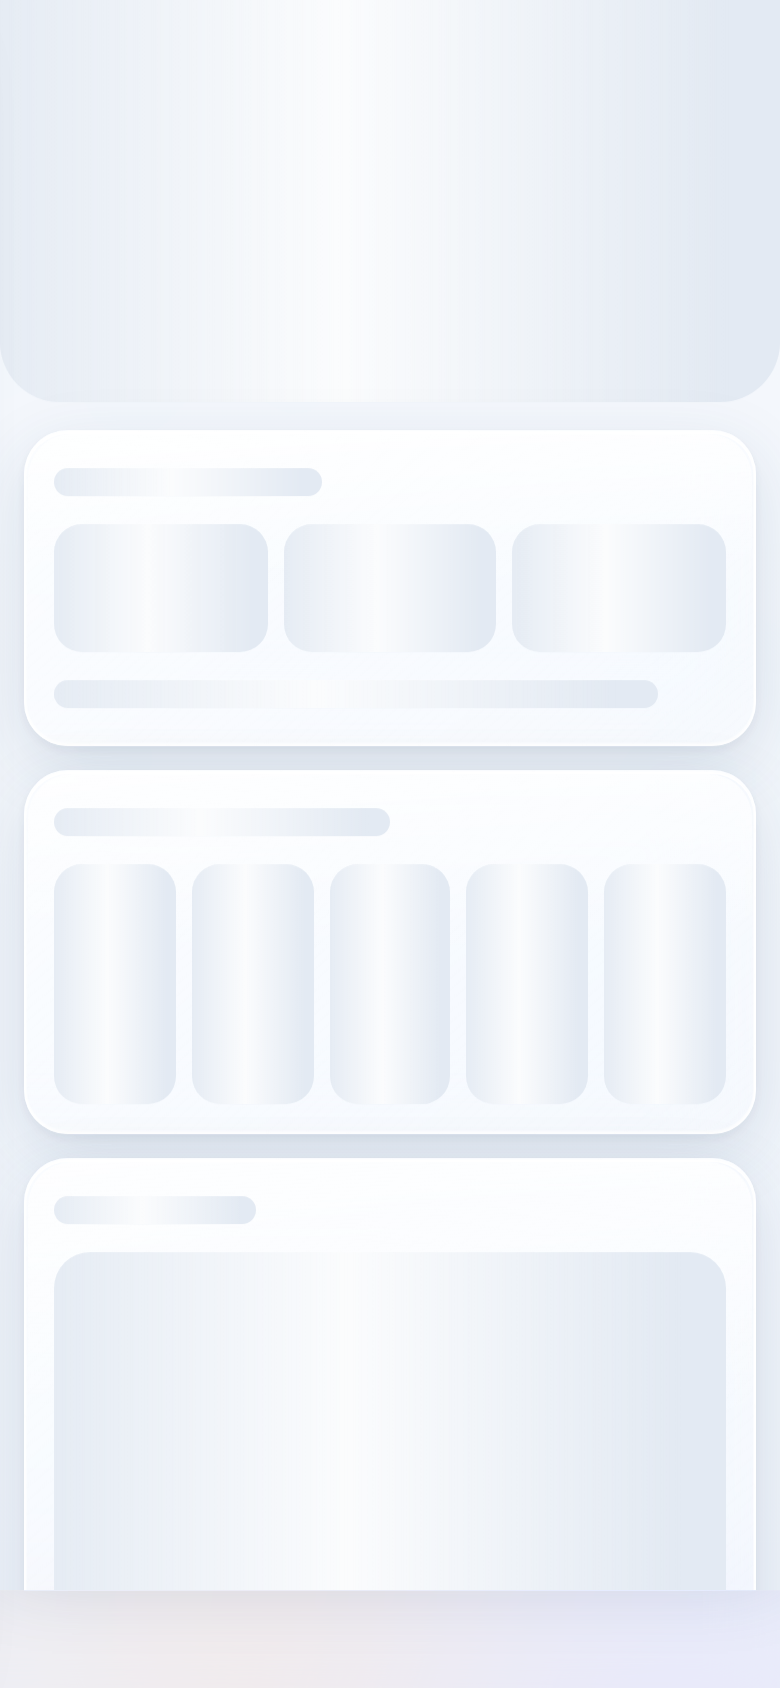
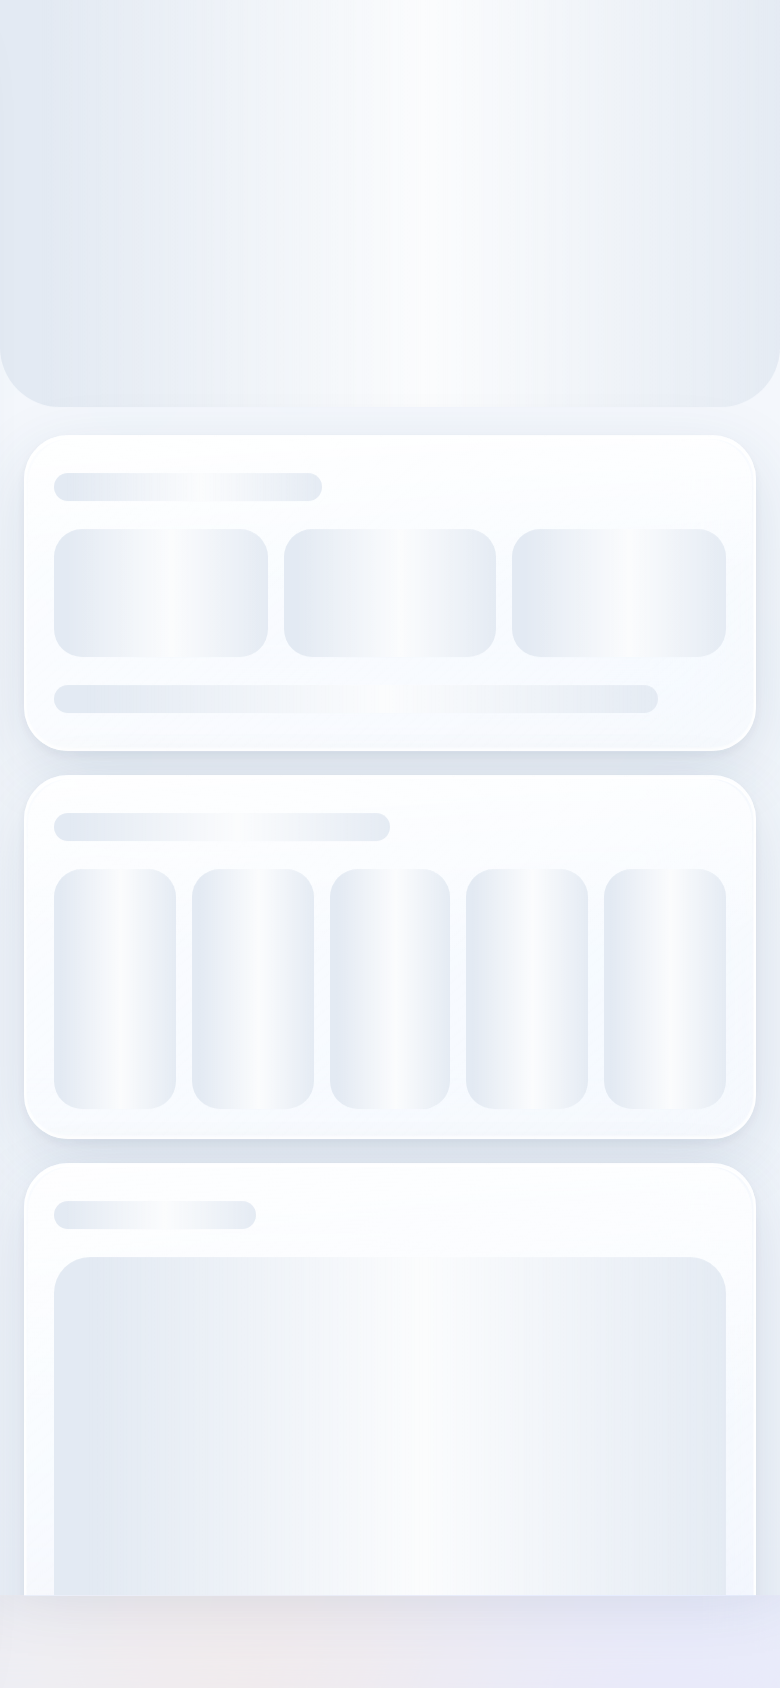
おすすめタブを削除（タブは検索・履歴の2つに）
- おすすめタブ・カルーセル・初心者向けリスト・メニューの「おすすめ」を削除
- ページャ・インジケーター・キー操作を2タブに対応
- E2E のタブ切替テストを2タブ用に更新

Claude-Session: https://claude.ai/code/session_017srsqCqyUnvrGkJVuN8LTR

Changed region(s): [[0.0615, 0.4313, 0.9538, 0.4621]]

diff --git a/public/js/app.js b/public/js/app.js
@@ -40,7 +40,6 @@ const state = {
 const el = {
   q: $('#q'), qClear: $('#qClear'), chips: $('#chips'), results: $('#results'), resultHead: $('#resultHead'), noResult: $('#noResult'),
   pager: $('#pager'), tabs: $$('.tab'), ind: $('.tab-ind'),
-  carousel: $('#carousel'), dots: $('#dots'), beginner: $('#beginnerList'), recoHead: $('#recoHead'),
   hist: $('#historyList'), histEmpty: $('#historyEmpty'),
   menuBtn: $('#menuBtn'), drawer: $('#drawer'), drawerScrim: $('#drawerScrim'),
   detail: $('#detail'), detailScroll: $('#detailScroll'),
@@ -96,7 +95,6 @@ function listNote() {
 
 function refreshLists() {
   renderResults();
-  renderBeginners();
 }
 
 function openMountain(id) {
@@ -174,7 +172,7 @@ function setActiveTab(i) {
   if (state.page === i && el.tabs[i].getAttribute('aria-selected') === 'true') return;
   state.page = i;
   el.tabs.forEach((t, k) => { t.setAttribute('aria-selected', String(k === i)); t.tabIndex = k === i ? 0 : -1; });
-  if (i === 2) renderHistory();
+  if (i === 1) renderHistory();
 }
 function bindPager() {
   let raf = 0;
@@ -191,51 +189,11 @@ function bindPager() {
   el.tabs.forEach((t, i) => t.addEventListener('click', () => goPage(i)));
   $('.tabs').addEventListener('keydown', (e) => {
     if (e.key !== 'ArrowRight' && e.key !== 'ArrowLeft') return;
-    const i = (state.page + (e.key === 'ArrowRight' ? 1 : 2)) % 3;
+    const i = (state.page + 1) % 2;
     goPage(i); el.tabs[i].focus();
   });
   window.addEventListener('resize', () => { el.pager.scrollLeft = state.page * el.pager.clientWidth; sync(); });
   sync();
-}
-
-// ------------------------------------------------------------------ おすすめ
-function renderReco() {
-  const mo = currentMonth();
-  el.recoHead.textContent = `${mo}月が適期の山`;
-  const list = MOUNTAINS.filter((m) => m.bestMonths.includes(mo)).sort((a, b) => b.popular - a.popular).slice(0, 8);
-  el.carousel.innerHTML = list.map((m, i) => `<button type="button" class="slide glass" data-id="${m.id}" aria-label="${esc(m.name)}の詳細を開く（${i + 1}/${list.length}）">
-      <span class="slide-art">${pic(m, { w: 320, h: 200 }, 'l')}</span>
-      <span class="slide-cap"><b>${esc(m.name)}</b><small>${esc(m.pref)}・${m.elev.toLocaleString()}m・${DIFFICULTY_LABEL[m.difficulty]}</small></span>
-    </button>`).join('');
-  el.dots.innerHTML = list.map((_, i) => `<span class="dot${i === 0 ? ' active' : ''}"></span>`).join('');
-  renderBeginners();
-  requestAnimationFrame(syncCarousel);
-}
-function renderBeginners() {
-  const mo = currentMonth();
-  const beginners = MOUNTAINS.filter((m) => m.difficulty <= 2).sort((a, b) => (b.bestMonths.includes(mo) - a.bestMonths.includes(mo)) || b.popular - a.popular).slice(0, 10);
-  el.beginner.innerHTML = beginners.map(cardHtml).join('');
-  const note = document.getElementById('beginnerNote');
-  if (note) note.innerHTML = listNote();
-}
-function syncCarousel() {
-  const c = el.carousel;
-  const mid = c.scrollLeft + c.clientWidth / 2;
-  let best = 0; let bestD = Infinity;
-  [...c.children].forEach((s, i) => {
-    const center = s.offsetLeft + s.offsetWidth / 2;
-    const d = Math.abs(center - mid);
-    const k = Math.min(1, d / (s.offsetWidth || 1));
-    s.style.setProperty('--k', (1 - k).toFixed(3));
-    if (d < bestD) { bestD = d; best = i; }
-  });
-  [...el.dots.children].forEach((d, i) => d.classList.toggle('active', i === best));
-  c.dataset.index = String(best);
-}
-function bindCarousel() {
-  let raf = 0;
-  el.carousel.addEventListener('scroll', () => { if (!raf) raf = requestAnimationFrame(() => { raf = 0; syncCarousel(); }); }, { passive: true });
-  window.addEventListener('resize', syncCarousel);
 }
 
 // ------------------------------------------------------------------ 履歴
@@ -343,8 +301,7 @@ function bindDrawer() {
     const act = b.dataset.act;
     closeDrawer(false);
     if (act === 'origin') openOriginSheet();
-    else if (act === 'reco') goPage(1);
-    else if (act === 'history') goPage(2);
+    else if (act === 'history') goPage(1);
     else if (act === 'clear') clearHistory();
     else if (act === 'about') openSheet(el.aboutSheet);
   });
@@ -472,7 +429,7 @@ function showDetail(m, pushed) {
   for (const s of [el.originSheet, el.aboutSheet]) closeSheet(s, false);
   hideToast();
   store.pushHistory(m.id);
-  if (state.page === 2) renderHistory();
+  if (state.page === 1) renderHistory();
   if (!el.detail.classList.contains('open')) detailReturnFocus = document.activeElement;
   const token = Symbol(m.id);
   const abort = new AbortController();
@@ -519,7 +476,7 @@ function hideDetail() {
     el.detail.classList.remove('closing');
     el.detailScroll.innerHTML = '';
   }, reducedMotion() ? 0 : 380);
-  if (state.page === 2) renderHistory();
+  if (state.page === 1) renderHistory();
   if (detailReturnFocus?.isConnected) detailReturnFocus.focus({ preventScroll: true });
 }
 
@@ -761,10 +718,8 @@ function boot() {
   renderOrigin();
   renderChips();
   renderResults();
-  renderReco();
   bindSearch();
   bindPager();
-  bindCarousel();
   bindDrawer();
   bindSheets();
   bindOrigin();

diff --git a/public/css/app.css b/public/css/app.css
@@ -126,10 +126,10 @@ small { font-size: 0.78em; }
 .below { position: relative; flex: 1; min-height: 0; display: flex; flex-direction: column; gap: 8px; }
 
 /* ---------- タブ ---------- */
-.tabs { display: grid; grid-template-columns: repeat(3, 1fr); height: 44px; padding: 4px; border-radius: 16px; flex: none; }
+.tabs { display: grid; grid-template-columns: repeat(2, 1fr); height: 44px; padding: 4px; border-radius: 16px; flex: none; }
 .tab { position: relative; z-index: 1; overflow: hidden; border-radius: 12px; font-size: 14px; font-weight: 700; color: var(--ink-2); transition: color 0.25s; }
 .tab[aria-selected="true"] { color: var(--accent); }
-.tab-ind { position: absolute; left: 4px; top: 4px; bottom: 4px; width: calc((100% - 8px) / 3); border-radius: 12px; z-index: 0;
+.tab-ind { position: absolute; left: 4px; top: 4px; bottom: 4px; width: calc((100% - 8px) / 2); border-radius: 12px; z-index: 0;
   background: linear-gradient(180deg, #fff, rgba(255, 255, 255, 0.75)); box-shadow: 0 3px 10px rgba(36, 66, 110, 0.14), inset 0 1px 0 #fff; will-change: transform; }
 
 .pager { flex: 1; min-height: 0; display: flex; overflow-x: auto; overflow-y: hidden; scroll-snap-type: x mandatory; overscroll-behavior-x: contain; scrollbar-width: none; border-radius: var(--r-lg); }
@@ -212,21 +212,6 @@ small { font-size: 0.78em; }
 .sk-card { display: flex; gap: 12px; align-items: center; padding: 10px; border-radius: var(--r-md); background: rgba(255, 255, 255, 0.6); flex: none; }
 .sk-thumb { width: 76px; height: 58px; flex: none; border-radius: 12px; }
 .sk-col { flex: 1; }
-
-/* ---------- おすすめ・カルーセル ---------- */
-.carousel { position: relative; display: flex; gap: 0; overflow-x: auto; overflow-y: hidden; scroll-snap-type: x mandatory; overscroll-behavior-x: contain; scrollbar-width: none;
-  padding: 10px 14% 14px; margin: 0 -2px; }
-.carousel::-webkit-scrollbar { display: none; }
-.slide { --k: 0; flex: 0 0 100%; scroll-snap-align: center; border-radius: 24px; overflow: hidden; padding: 0; text-align: left;
-  transform: scale(calc(0.86 + var(--k) * 0.14)); opacity: calc(0.6 + var(--k) * 0.4); transition: transform 0.12s linear, box-shadow 0.3s; display: block; }
-.slide-art { display: block; aspect-ratio: 16 / 10; }
-.slide-art svg { display: block; width: 100%; height: 100%; }
-.slide-cap { display: flex; flex-direction: column; padding: 10px 14px 12px; }
-.slide-cap b { font-size: 17px; }
-.slide-cap small { color: var(--ink-2); }
-.dots { display: flex; justify-content: center; gap: 6px; margin: 0 0 6px; }
-.dot { width: 7px; height: 7px; border-radius: 99px; background: rgba(27, 42, 61, 0.18); transition: width 0.35s var(--spring), background 0.3s; }
-.dot.active { width: 22px; background: var(--accent); }
 
 /* ---------- 履歴 ---------- */
 .hitem { position: relative; border-radius: var(--r-md); overflow: hidden; transition: max-height 0.25s var(--ease), opacity 0.25s; }
@@ -471,7 +456,7 @@ small { font-size: 0.78em; }
 .sort-tag { font-size: 11px; font-weight: 800; color: var(--accent); background: rgba(47, 116, 240, 0.1); padding: 1px 8px; border-radius: 999px; }
 
 /* 山の写真（イラストの上に重ねる） */
-.mthumb, .hthumb, .slide-art, .hero-art { position: relative; overflow: hidden; }
+.mthumb, .hthumb, .hero-art { position: relative; overflow: hidden; }
 .mphoto { position: absolute; inset: 0; width: 100%; height: 100%; object-fit: cover; display: block; opacity: 0; transition: opacity 0.4s var(--ease); }
 .mphoto.loaded, .mphoto[data-loaded] { opacity: 1; }
 .hero-art { position: absolute; }

diff --git a/public/index.html b/public/index.html
@@ -38,8 +38,7 @@
   <div class="below">
     <nav class="tabs glass" role="tablist" aria-label="表示切替">
       <button class="tab rp" role="tab" id="tab-search" aria-controls="page-search" aria-selected="true" data-i="0">検索</button>
-      <button class="tab rp" role="tab" id="tab-reco" aria-controls="page-reco" aria-selected="false" data-i="1" tabindex="-1">おすすめ</button>
-      <button class="tab rp" role="tab" id="tab-history" aria-controls="page-history" aria-selected="false" data-i="2" tabindex="-1">履歴</button>
+      <button class="tab rp" role="tab" id="tab-history" aria-controls="page-history" aria-selected="false" data-i="1" tabindex="-1">履歴</button>
       <span class="tab-ind" aria-hidden="true"></span>
     </nav>
 
@@ -49,13 +48,6 @@
         <h2 class="list-head" id="resultHead">人気の山</h2>
         <ul class="mlist" id="results" aria-live="polite"></ul>
         <p class="empty" id="noResult" hidden></p>
-      </section>
-      <section class="page" id="page-reco" role="tabpanel" aria-labelledby="tab-reco">
-        <h2 class="list-head" id="recoHead">今月が適期の山</h2>
-        <div class="carousel" id="carousel" aria-roledescription="カルーセル" aria-label="今月が適期の山"></div>
-        <div class="dots" id="dots" aria-hidden="true"></div>
-        <h2 class="list-head">初心者向けの山<small id="beginnerNote" class="list-note"></small></h2>
-        <ul class="mlist" id="beginnerList"></ul>
       </section>
       <section class="page" id="page-history" role="tabpanel" aria-labelledby="tab-history">
         <h2 class="list-head">最近見た山 <small>左へフリックで削除・右へフリックでお気に入り</small></h2>
@@ -85,7 +77,6 @@
   <div class="drawer-head"><span class="brand">やまナビ</span><small>登山計画をもっと手軽に</small></div>
   <nav class="drawer-nav">
     <button type="button" class="dnav rp" data-act="origin"><span class="dico" data-icon="pin"></span>出発地を設定</button>
-    <button type="button" class="dnav rp" data-act="reco"><span class="dico" data-icon="sparkle"></span>おすすめ</button>
     <button type="button" class="dnav rp" data-act="history"><span class="dico" data-icon="clock"></span>履歴</button>
     <button type="button" class="dnav rp danger" data-act="clear"><span class="dico" data-icon="trash"></span>履歴をすべて削除</button>
     <button type="button" class="dnav rp" data-act="about"><span class="dico" data-icon="info"></span>このアプリについて</button>

diff --git a/goal/REPORT.md b/goal/REPORT.md
@@ -1,32 +1,32 @@
 # やまナビ E2E テストレポート
 
-- 実行日時：2026/11/18 9:29:13（JST）
-- 結果：**16/16 合格** ✅（138.8秒）
+- 実行日時：2026/11/18 9:47:01（JST）
+- 結果：**16/16 合格** ✅（133.7秒）
 - ブラウザ：Google Chrome 153.0.8010.12（/usr/bin/google-chrome）・ヘッドレス
 - 端末エミュレーション：390×844 / deviceScaleFactor 2 / isMobile / hasTouch / ja-JP / Asia/Tokyo
 - サーバー：`scripts/dev-server.mjs`（src/worker.js を Node で実行）`MOCK_UPSTREAM=1`（フィクスチャ：goal/fixtures/upstream.json）。テスト14は `MOCK_WEATHER_FAIL=1` のサーバーを使用
-- 地図タイル：ルーティングで画像スタブを返却（要求回数 合計 104 回）。それ以外の外部リクエストは遮断し、発生したら失敗
+- 地図タイル：ルーティングで画像スタブを返却（要求回数 合計 98 回）。それ以外の外部リクエストは遮断し、発生したら失敗
 - 横フリック：CDP `Input.dispatchTouchEvent` による実タッチ
 - 失敗条件：アサーション違反、`pageerror` または `console.error` が1件でも出た場合（テスト14のみ、意図的に失敗させた通信の "Failed to load resource" を除外）
 
 | # | テスト | 結果 | 時間 | 詳細 |
 |---|---|---|---|---|
-| 1 | 起動直後に検索欄へフォーカスし「たかお」で高尾山が先頭 | ✅ PASS | 2.2s |  |
-| 2 | 起動スケルトンが表示されてから消える | ✅ PASS | 1.1s | スケルトン表示〜消失: 約418ms（入力時スケルトン表示中=true） |
-| 3 | 検索：タカオ／takao／八ヶ岳／ふじ／北海道・該当なし・クリア | ✅ PASS | 3.4s | 全167座 |
-| 4 | 絞り込み：初心者向け（難易度2以下）・百名山（100座）・出発地から近い順 | ✅ PASS | 6.5s | 全167座 → 初心者向け73座・百名山100座・近い順の先頭「高尾山」 |
-| 5 | 詳細：スケルトン→難易度・標準タイム・適期12ヶ月・登山指数ABCAB・てんくらリンク | ✅ PASS | 6.1s | 難易度初級・適期6/12・指数ABCAB |
-| 6 | 地図：S/Gマーカー・ルート線・タイル要求・2点が収まる・ドラッグ・ズーム | ✅ PASS | 7.9s | ズーム9・タイル要求18回（ドラッグ後+12）・道路 約61km（目安） |
-| 7 | 交通費：夏→冬で車が上がる・スタッドレス注記・冬季注意・フリック切替 | ✅ PASS | 10.9s | 車 ¥17,230 → ¥17,900（冬） |
-| 8 | 富士山：冬は車・公共交通とも利用不可、夏は通行料の注記 | ✅ PASS | 8.4s |  |
-| 9 | 出発地：まつもと→松本駅でヘッダー・地図・交通費が変化／住所でも設定・リロード後も保持 | ✅ PASS | 13.2s | 槍ヶ岳 車 東京¥21,920→松本¥5,580 / 公共交通 ¥18,440→¥5,320 |
-| 10 | 履歴：開いた順・右フリックでお気に入り・左フリックで削除→元に戻す・タップで詳細 | ✅ PASS | 17.8s |  |
-| 11 | ページャ横フリックでタブ切替・カルーセル（画像3枚以上、フリックでドット前進、タブは動かない、スライドから詳細） | ✅ PASS | 10.6s | スライド8枚・ドット2枚目へ・「筑波山」を開いた |
-| 12 | ハンバーガー：開閉・aria-expanded・履歴全削除→元に戻す・説明シート・Esc/背景タップで閉じる | ✅ PASS | 16.0s |  |
-| 13 | ブラウザの戻るで詳細が閉じる・#m-yari の直リンクで詳細が開く | ✅ PASS | 10.0s |  |
-| 14 | 気象APIが落ちてもエラー表示と公式リンクが出る | ✅ PASS | 4.6s |  |
+| 1 | 起動直後に検索欄へフォーカスし「たかお」で高尾山が先頭 | ✅ PASS | 2.3s |  |
+| 2 | 起動スケルトンが表示されてから消える | ✅ PASS | 1.1s | スケルトン表示〜消失: 約419ms（入力時スケルトン表示中=true） |
+| 3 | 検索：タカオ／takao／八ヶ岳／ふじ／北海道・該当なし・クリア | ✅ PASS | 3.3s | 全167座 |
+| 4 | 絞り込み：初心者向け（難易度2以下）・百名山（100座）・出発地から近い順 | ✅ PASS | 7.1s | 全167座 → 初心者向け73座・百名山100座・近い順の先頭「高尾山」 |
+| 5 | 詳細：スケルトン→難易度・標準タイム・適期12ヶ月・登山指数ABCAB・てんくらリンク | ✅ PASS | 6.2s | 難易度初級・適期6/12・指数ABCAB |
+| 6 | 地図：S/Gマーカー・ルート線・タイル要求・2点が収まる・ドラッグ・ズーム | ✅ PASS | 8.2s | ズーム9・タイル要求18回（ドラッグ後+12）・道路 約61km（目安） |
+| 7 | 交通費：夏→冬で車が上がる・スタッドレス注記・冬季注意・フリック切替 | ✅ PASS | 11.4s | 車 ¥17,230 → ¥17,900（冬） |
+| 8 | 富士山：冬は車・公共交通とも利用不可、夏は通行料の注記 | ✅ PASS | 7.9s |  |
+| 9 | 出発地：まつもと→松本駅でヘッダー・地図・交通費が変化／住所でも設定・リロード後も保持 | ✅ PASS | 13.0s | 槍ヶ岳 車 東京¥21,920→松本¥5,580 / 公共交通 ¥18,440→¥5,320 |
+| 10 | 履歴：開いた順・右フリックでお気に入り・左フリックで削除→元に戻す・タップで詳細 | ✅ PASS | 19.1s |  |
+| 11 | ページャ横フリックでタブ切替（検索⇔履歴）・インジケーター追従 | ✅ PASS | 4.8s | タブ2つ・左右フリックで切替 |
+| 12 | ハンバーガー：開閉・aria-expanded・履歴全削除→元に戻す・説明シート・Esc/背景タップで閉じる | ✅ PASS | 15.4s |  |
+| 13 | ブラウザの戻るで詳細が閉じる・#m-yari の直リンクで詳細が開く | ✅ PASS | 10.2s |  |
+| 14 | 気象APIが落ちてもエラー表示と公式リンクが出る | ✅ PASS | 4.4s |  |
 | 15 | Worker API の入出力（health / 400 / weather算出 / geocode / 404 / 405） | ✅ PASS | 0.1s | health/400×7/weather ABCAB+キャッシュHIT/geocode/404/405×3/上流失敗502 |
-| 16 | 詳細・全タブ・bodyで横スクロールがはみ出さない | ✅ PASS | 19.9s |  |
+| 16 | 詳細・全タブ・bodyで横スクロールがはみ出さない | ✅ PASS | 19.1s |  |
 
 ## スクリーンショット（goal/screenshots/）
 
@@ -51,8 +51,7 @@
 - [10-history.png](screenshots/10-history.png)
 - [10-history-fav.png](screenshots/10-history-fav.png)
 - [10-history-deleted.png](screenshots/10-history-deleted.png)
-- [11-reco.png](screenshots/11-reco.png)
-- [11-reco-carousel-moved.png](screenshots/11-reco-carousel-moved.png)
+- [11-history-tab.png](screenshots/11-history-tab.png)
 - [12-drawer.png](screenshots/12-drawer.png)
 - [12-about.png](screenshots/12-about.png)
 - [13-direct-link-yari.png](screenshots/13-direct-link-yari.png)

diff --git a/README.md b/README.md
@@ -10,8 +10,7 @@
   - 山名・よみ・ローマ字・都道府県・エリア・別名・タグで部分一致（先頭一致を優先）。Enterで先頭を開く、クリアボタン
   - 絞り込みチップ：今が適期／初心者向け（難易度2以下）／日帰り（8時間以下）／公共交通OK／冬も登れる／百名山
   - 並び替え：「近い順」で出発地から登山口までの距離が近い順（選択は端末に保存）
-- **タブ（検索／おすすめ／履歴）**：横フリックで切替（scroll-snap ページャ）、インジケーターがスクロールに追従
-  - おすすめ：今月が適期の山を山の画像付きカルーセルで表示（中央拡大・ドット）＋初心者向けリスト
+- **タブ（検索／履歴）**：横フリックで切替（scroll-snap ページャ）、インジケーターがスクロールに追従
   - 履歴：開いた山を自動記録（最大50件）。左フリックで削除（トーストで元に戻す）、右フリックでお気に入り（★で上に固定）
 - **山の詳細**（`#m-<id>` で直リンク、ブラウザの戻るで閉じる）
   - 概要：難易度（5段階）・標準タイム（コース名）・標高・冬季の可否・適期（12ヶ月のバー、今月を強調）
